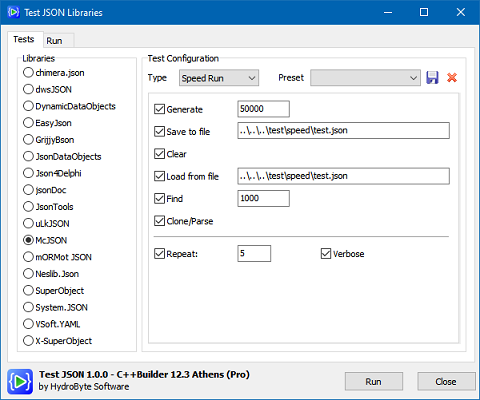
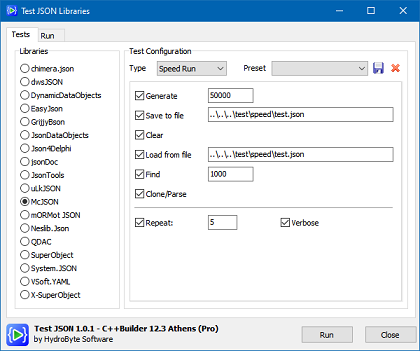
Adds QDAC (qjson.pas). Updates tests and results with C++Builder 12.3. Fix missing TJ.LibQDAC.pas.

diff --git a/packages/PrjTestJsonCXE123.cpp b/packages/PrjTestJsonCXE123.cpp
@@ -4,6 +4,9 @@
 #include <tchar.h>
 
 USEFORMNS("..\src\FoMainDx.pas", Fomaindx, FormMain);
+
+//Error in CX 12.3: looses the line above when adding .pas files. Backup:
+//USEFORMNS("..\src\FoMainDx.pas", Fomaindx, FormMain);
 //---------------------------------------------------------------------------
 #pragma link "IndySystem.bpi"
 #pragma link "IndyCore.bpi"

diff --git a/README.md b/README.md
@@ -28,7 +28,7 @@ Library          | Delphi | C++Builder |
 [jsonDoc](http://github.com/stijnsanders/jsonDoc#jsonDoc)                                  | ✓ | ✓ |
 [mORMot2](https://github.com/synopse/mORMot2/tree/master/src/core)                         | ✓ | ✓ |
 [VSoft.YAML](https://github.com/VSoftTechnologies/VSoft.YAML)                              | ✓ | ✓ |
-[QDAC](https://github.com/chinawsb/qdac)                                                   | ✓ |   |
+[QDAC](https://github.com/chinawsb/qdac)                                                   | ✓ | ✓ |
 
 Note: in order of inclusion.
 
@@ -102,6 +102,7 @@ Library             | Generate  | Save     | Load     | Find     | Parse    | To
 `mORMot2`           |     .05 s |    .00 s |    .03 s |    .11 s |    .02 s |    0.28 s |     - MiB |          |
 `Grijjy.Bson`       |     .06 s |    .04 s |    .06 s |    .00 s |    .08 s |    0.32 s |     - MiB |          |
 `DynamicDataObjects`|     .07 s |    .02 s |    .05 s |    .00 s |    .06 s |    0.33 s |     - MiB |          |
+`QDAC`              |     .04 s |    .03 s |    .03 s |    .24 s |    .07 s |    0.53 s |     - MiB |          |
 `System.JSON`       |     .03 s |    .01 s |    .07 s |    .25 s |    .07 s |    0.55 s |     - MiB |          |
 `chimera.json`      |     .10 s |    .04 s |    .15 s |    .01 s |    .16 s |    0.56 s |     - MiB |          |
 `JsonDoc`           |     .14 s |    .04 s |    .11 s |    .01 s |    .17 s |    0.57 s |     - MiB |          |
